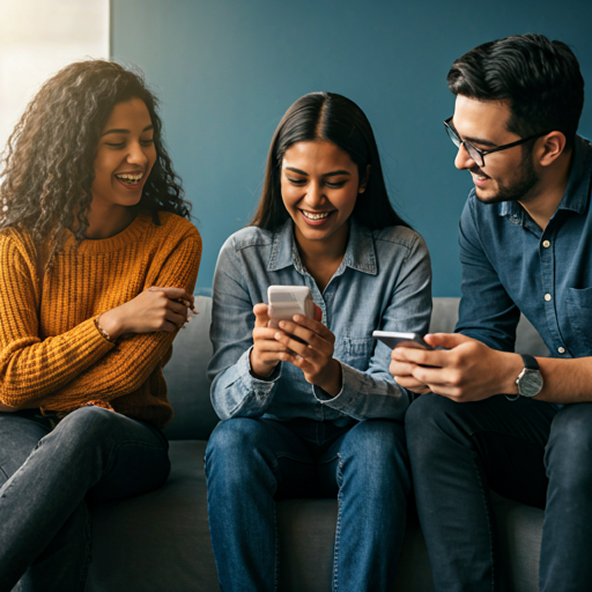
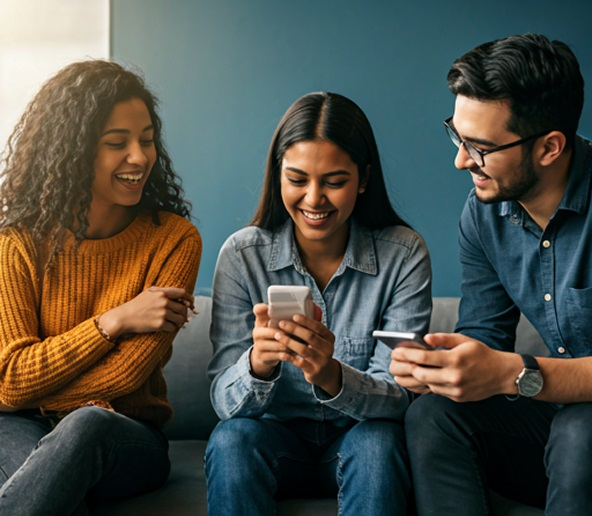
fix(HomeView): apply corrections

diff --git a/src/views/HomeView.vue b/src/views/HomeView.vue
@@ -11,7 +11,7 @@ import {
 
 <template>
   <!--Hero section-->
-  <section class="pt-20 pb-32 bg-brand-bg">
+  <section class="pt-20 pb-16 bg-brand-bg">
     <div class="grid grid-cols-1 lg:grid-cols-2 gap-12 px-6">
       <div class="flex flex-col gap-6">
         <span
@@ -45,15 +45,16 @@ import {
           </a>
         </div>
       </div>
-      <div>
+
+      <div class="relative group">
         <img
           src="../assets/img/hero-image.jpg"
           alt="Imagen de estudiantes universitarios usando el banco"
-          class="w-full rounded-[48px] shadow-lg object-cover"
+          class="w-full rounded-[48px] shadow-lg object-cover relative z-10"
         />
-        <!-- Highlight Card -->
+
         <div
-          class="rounded-4xl shadow-lg px-6 py-6 flex gap-4 relative mx-auto lg:mx-0 lg:-left-6 -top-18 bg-white w-81"
+          class="absolute -bottom-6 left-1/2 -translate-x-1/2 lg:left-0 lg:-translate-x-6 lg:bottom-12 z-20 bg-white rounded-4xl shadow-xl px-6 py-6 flex gap-4 w-72 md:w-81"
         >
           <div class="bg-teal-300 rounded-4xl p-2 flex items-center">
             <ShieldCheck class="text-brand-primary" />
